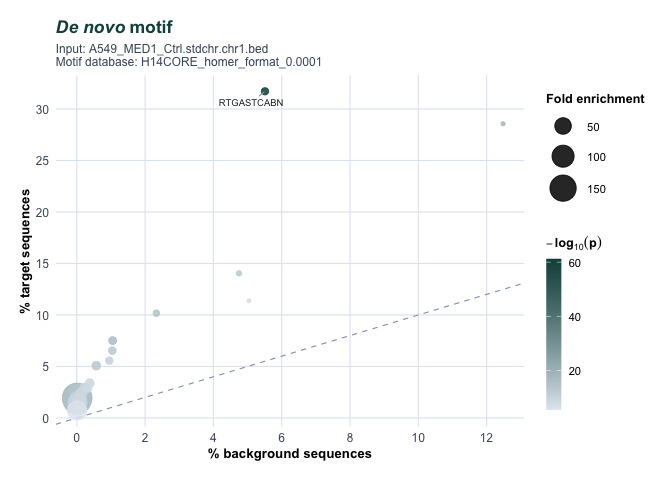
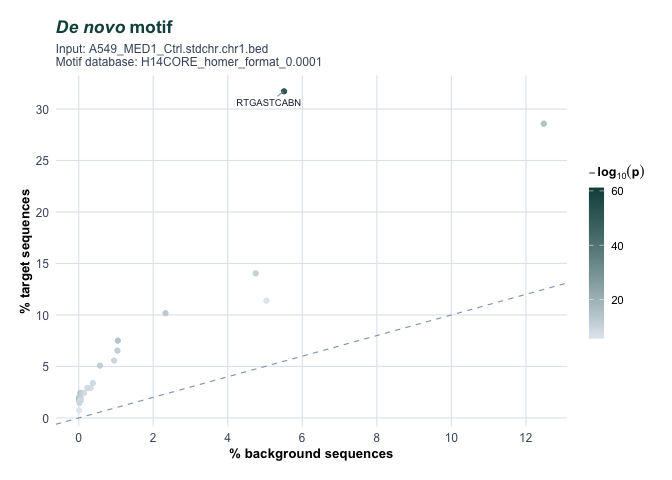
update README

diff --git a/README.md b/README.md
@@ -88,7 +88,7 @@ plot_denovo_dotplot(homer)
 #### Scatter plots
 
 ``` r
-plot_known_scatter(homer, size_by_fe = FALSE)
+plot_known_scatter(homer)
 plot_denovo_scatter(homer)
 ```
 
